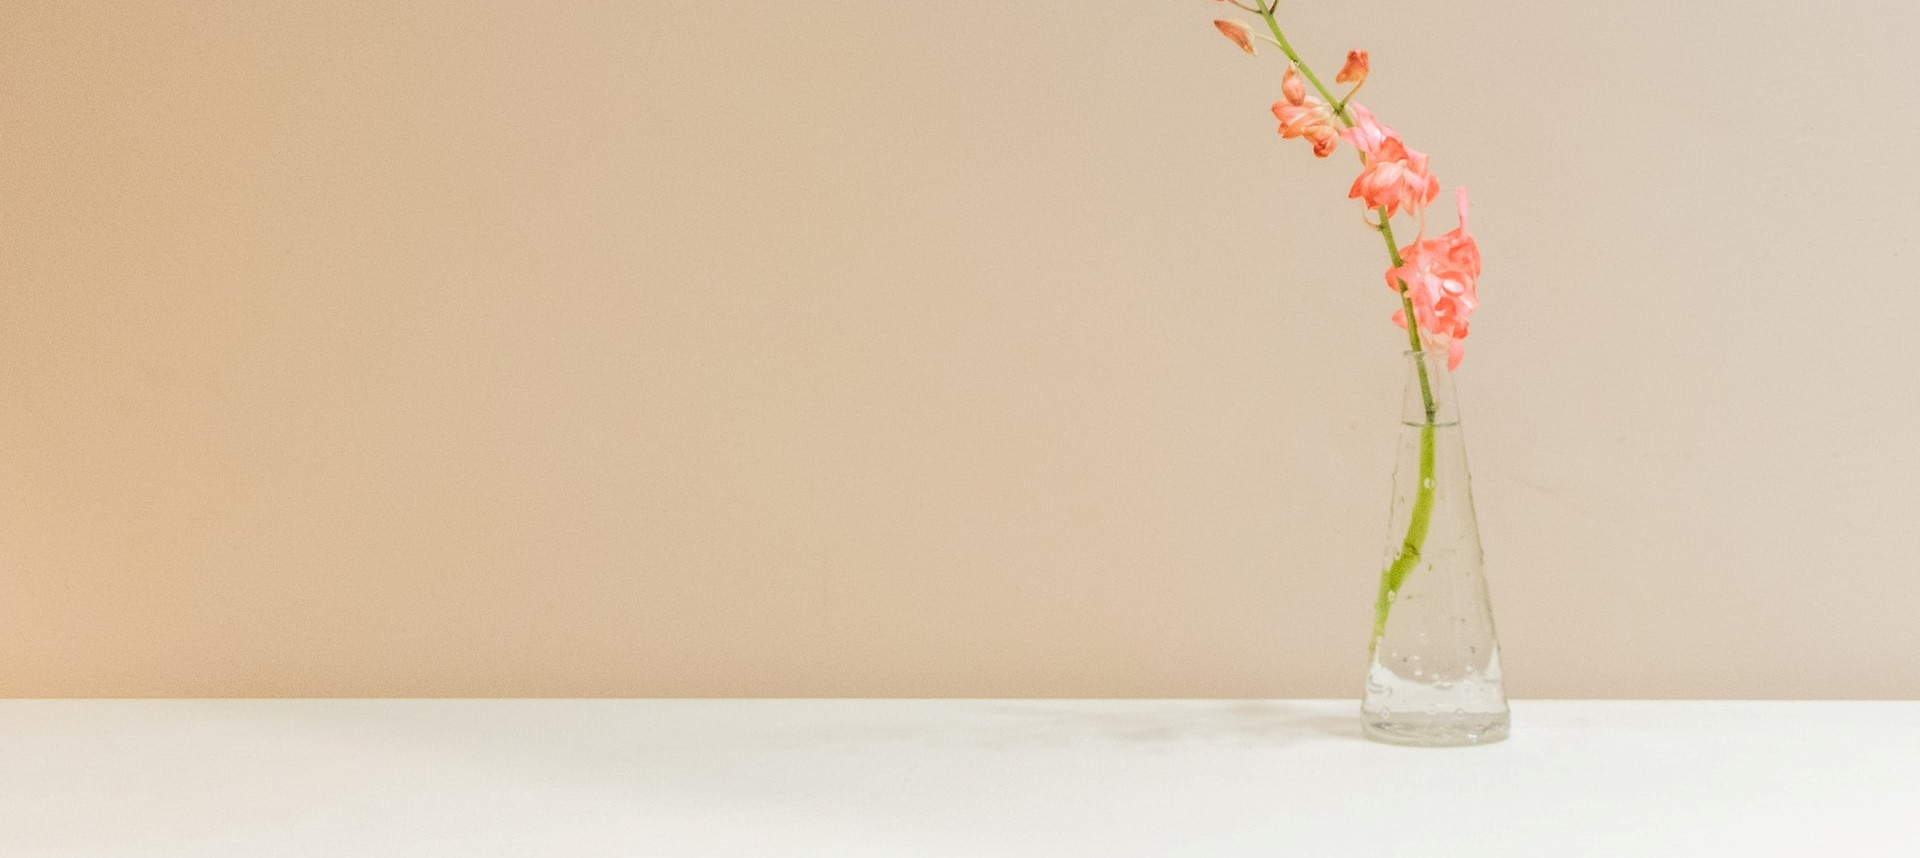
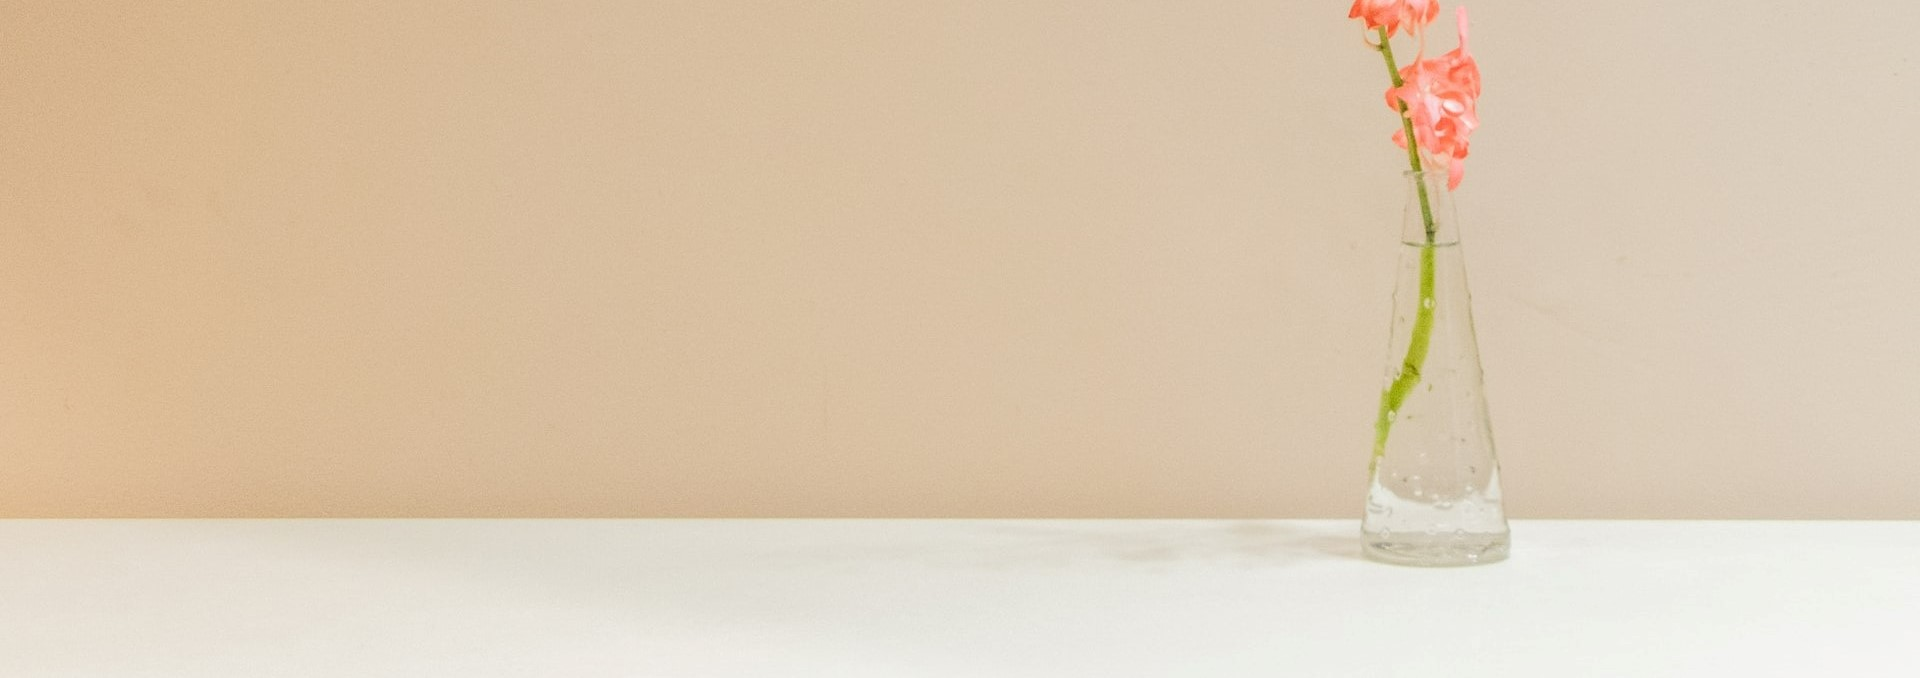
0129

Changed region(s): [[0.0, 0.0, 1.0, 0.8982]]

diff --git a/quasar-project/src/css/product.scss b/quasar-project/src/css/product.scss
@@ -89,7 +89,7 @@
     .ocean {
       grid-row: 1 / 2;
       grid-column: 1 / -1;
-      background-image: url(https://images.unsplash.com/photo-1577017050748-389f0021d860?ixlib=rb-4.0.3&ixid=MnwxMjA3fDB8MHxwaG90by1wYWdlfHx8fGVufDB8fHx8&auto=format&fit=crop&w=1182&q=80);
+      background-image: url(https://github.com/gagiHerDesign/00_GAGI----/blob/master/quasar-project/src/assets/img/product/big3.jpg?raw=true);
       background-repeat: no-repeat;
       background-size: cover;
       overflow: hidden;
